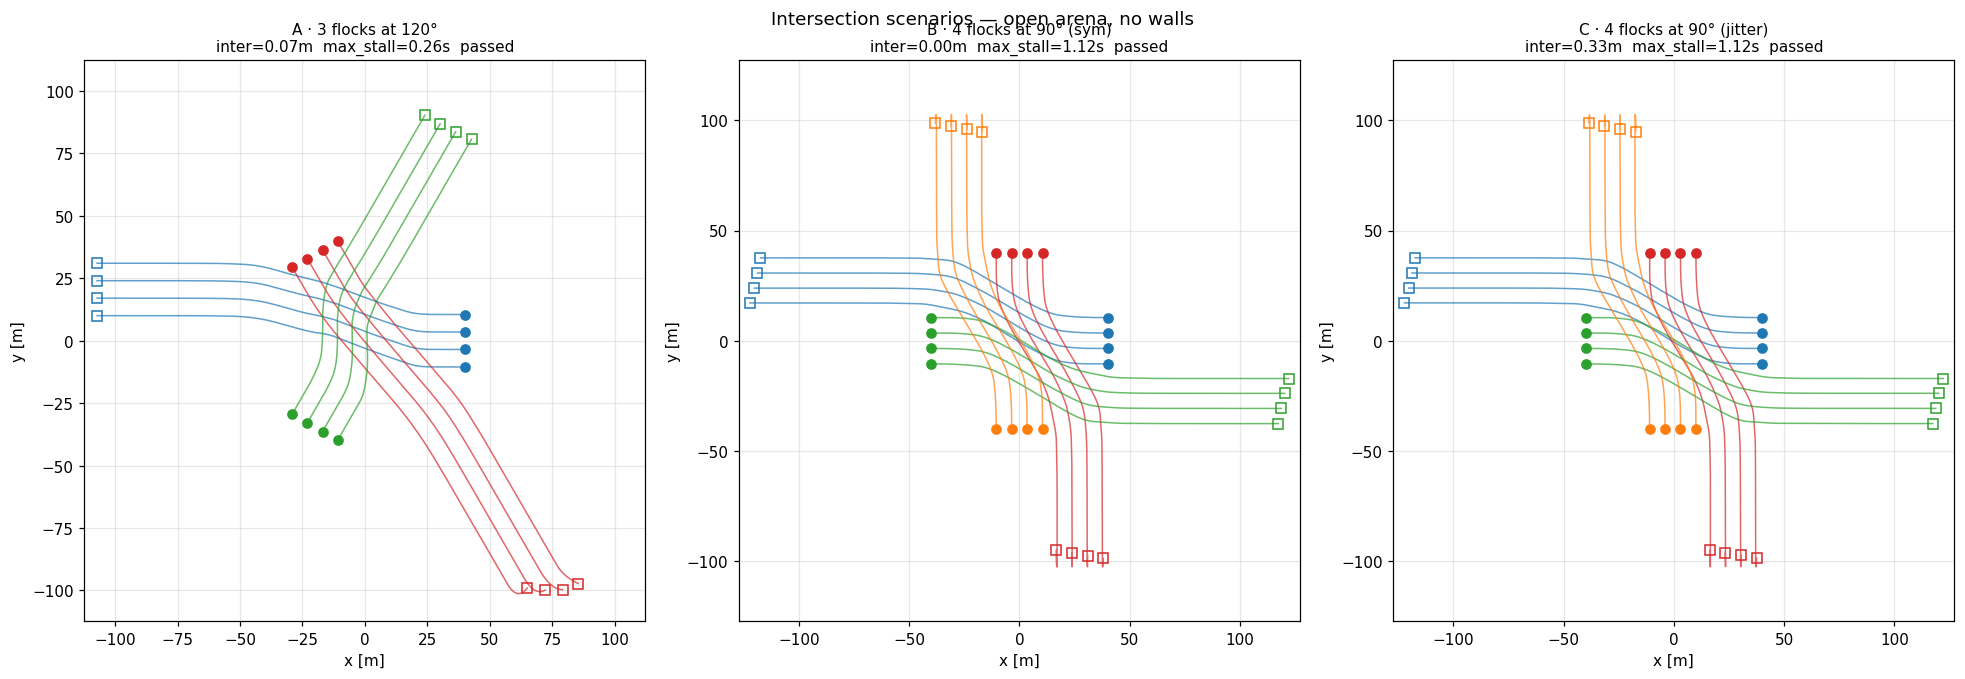
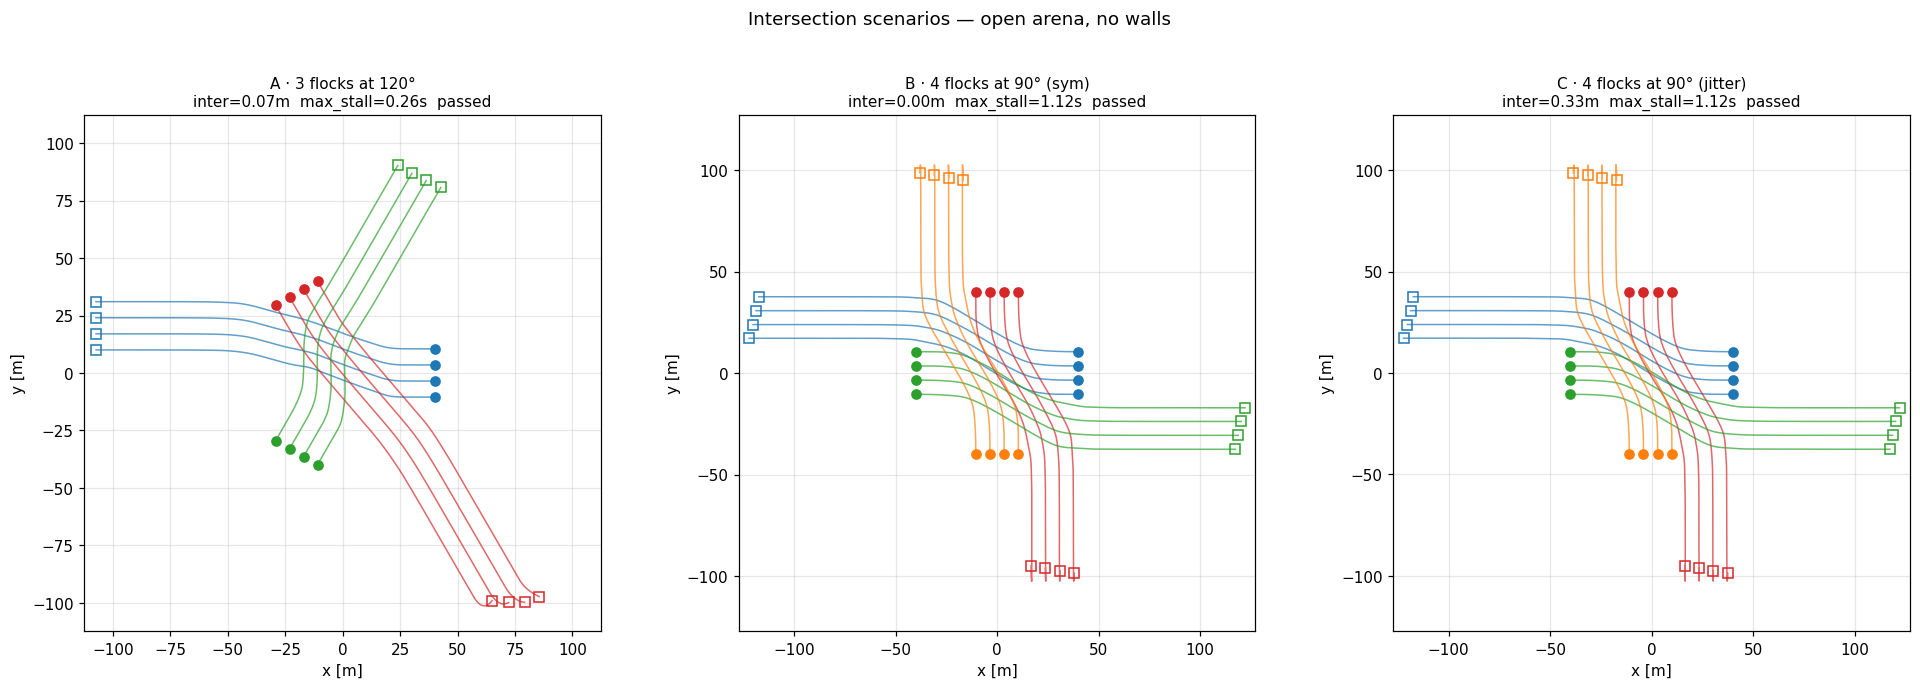
Fix overlapping titles in exp_intersection figure.
tight_layout() alone doesn't reserve room for the suptitle, so the
"Intersection scenarios — open arena, no walls" header was colliding
with the per-subplot two-line titles. Lift the suptitle with y=0.995
and pass rect=(0,0,1,0.93) to tight_layout so the subplot grid stays
below it. Regenerated figures/exp_intersection.png.

diff --git a/experiments/exp_intersection.py b/experiments/exp_intersection.py
@@ -133,8 +133,8 @@ def main():
         ax.set_title(f'{label}\ninter={m["inter_min"]:.2f}m  max_stall={m["max_stall_s"]:.2f}s'
                      f'  {"DEADLOCK" if m["deadlock"] else "passed"}',
                      fontsize=10)
-    fig.suptitle('Intersection scenarios — open arena, no walls')
-    fig.tight_layout()
+    fig.suptitle('Intersection scenarios — open arena, no walls', fontsize=12, y=0.995)
+    fig.tight_layout(rect=(0, 0, 1, 0.93))
     fig.savefig('exp_intersection.png', dpi=110, bbox_inches='tight')
     print('saved exp_intersection.png')
 